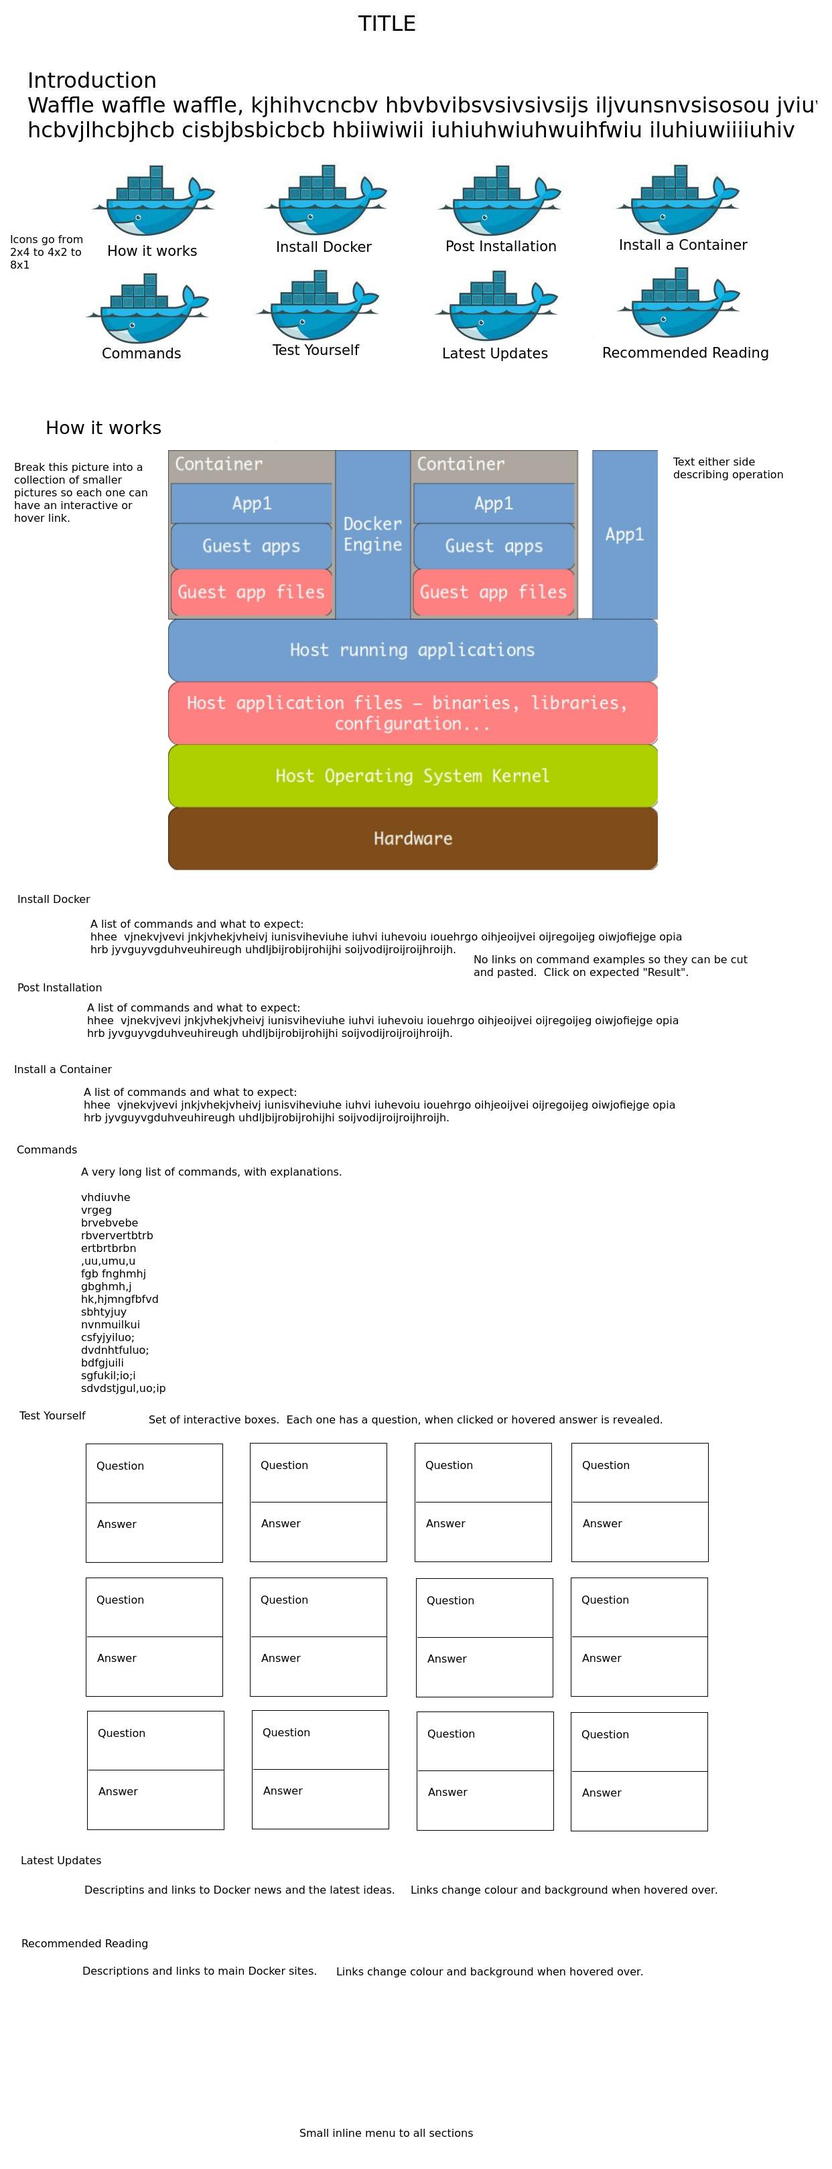
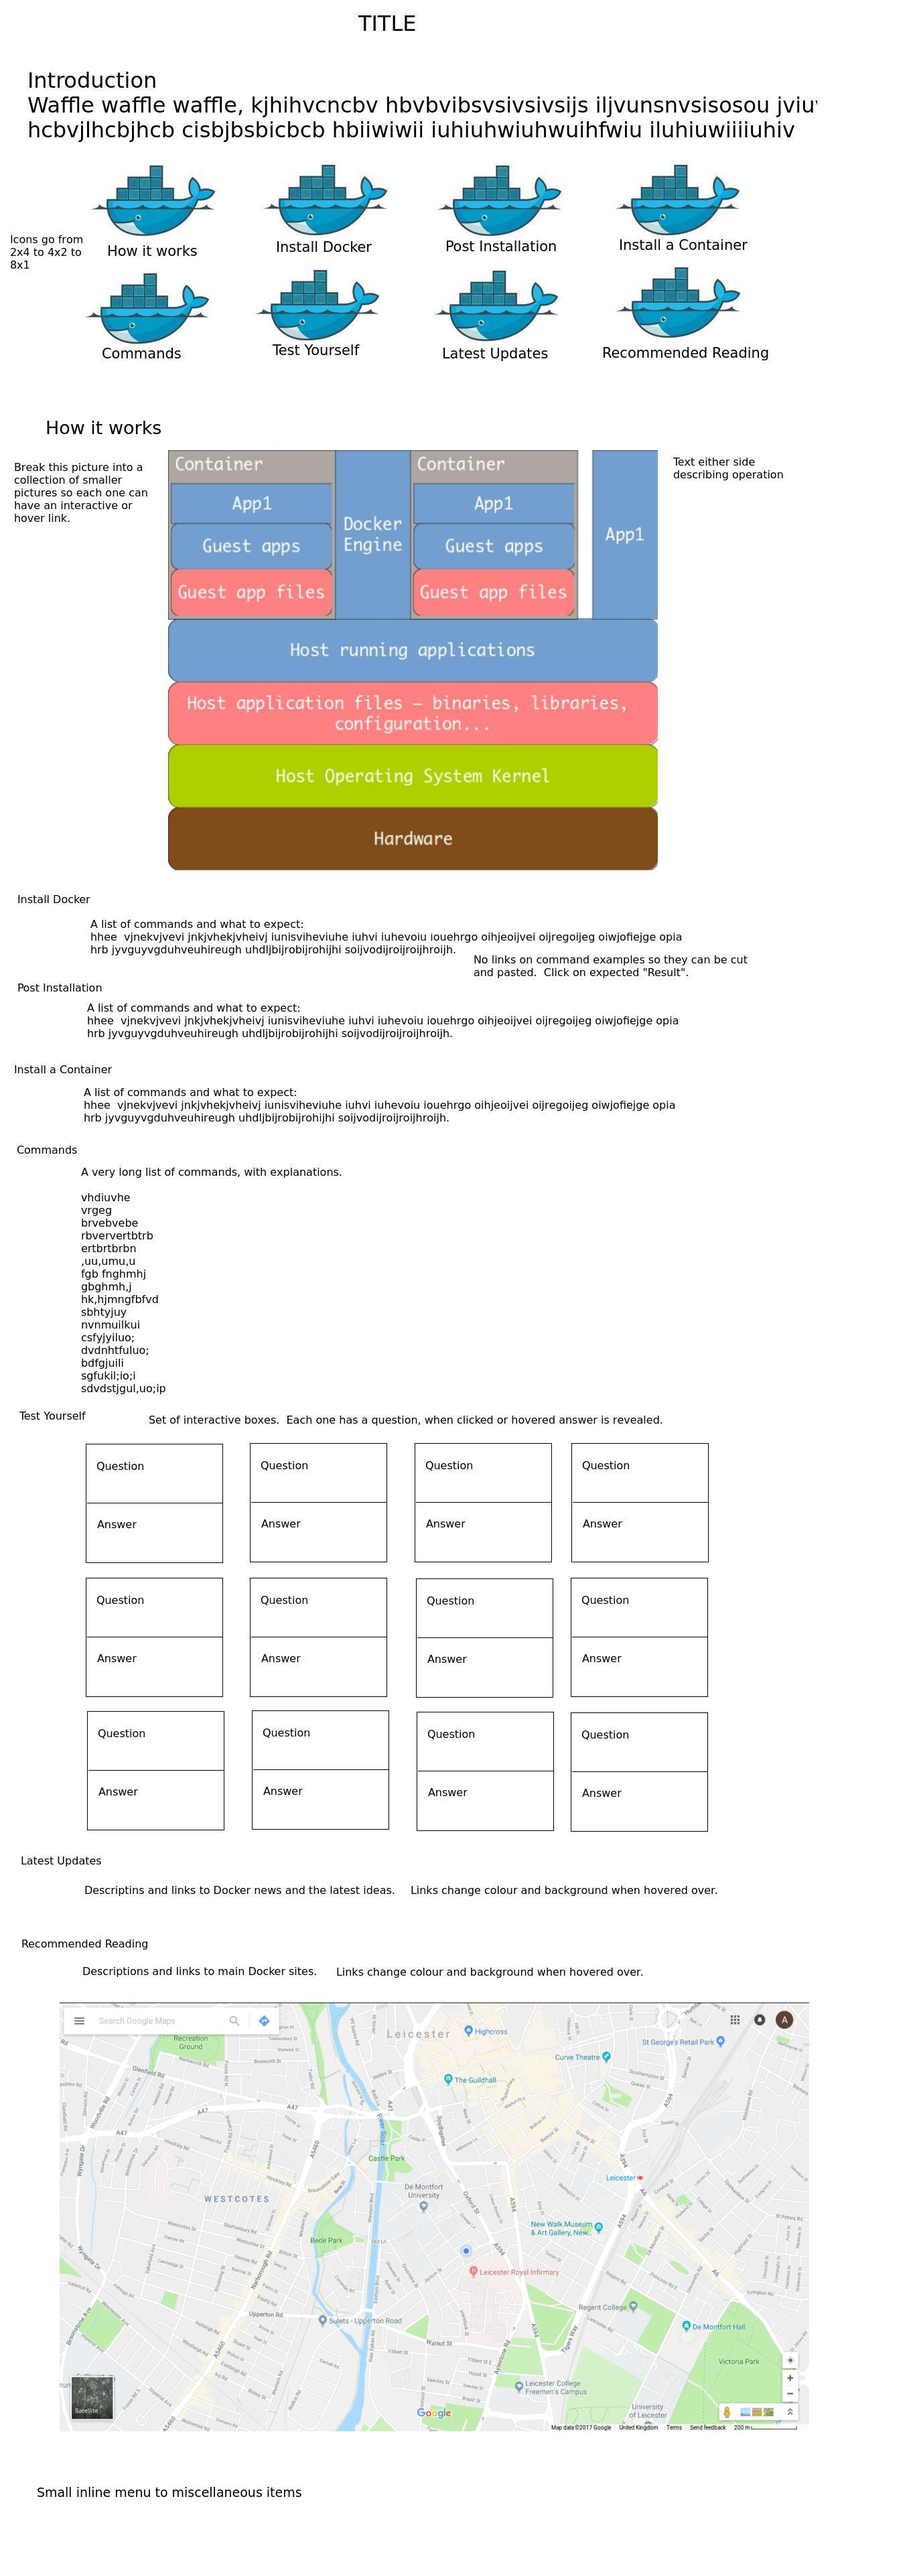
Readme additions

diff --git a/README.md b/README.md
@@ -3,6 +3,8 @@ I want a simple lay out which is quick and easy to navigate.  The purpose is to 
 The user can also see in an interactive diagram how Docker works and another interactive section quizzes them on the most useful commands.
 This rounded off with a small section of useful further reading on other websites. 
 
+![wireframe](https://github.com/AndyR03/CTEC3905_website/blob/master/Wireframe.jpeg)
+
 2017-11-28 Github tested, HTML frame started,  Folders created, CSS link tested,  Embedded picture (need to move and link) 
 
 2017-11-30 Responsiveness added and tested.
@@ -21,7 +23,7 @@ This rounded off with a small section of useful further reading on other website
 
 2017-12-18 Modifications
 
-2017-12-
+2017-12-22 Javascript added for maps
 
 2017-12-
 
